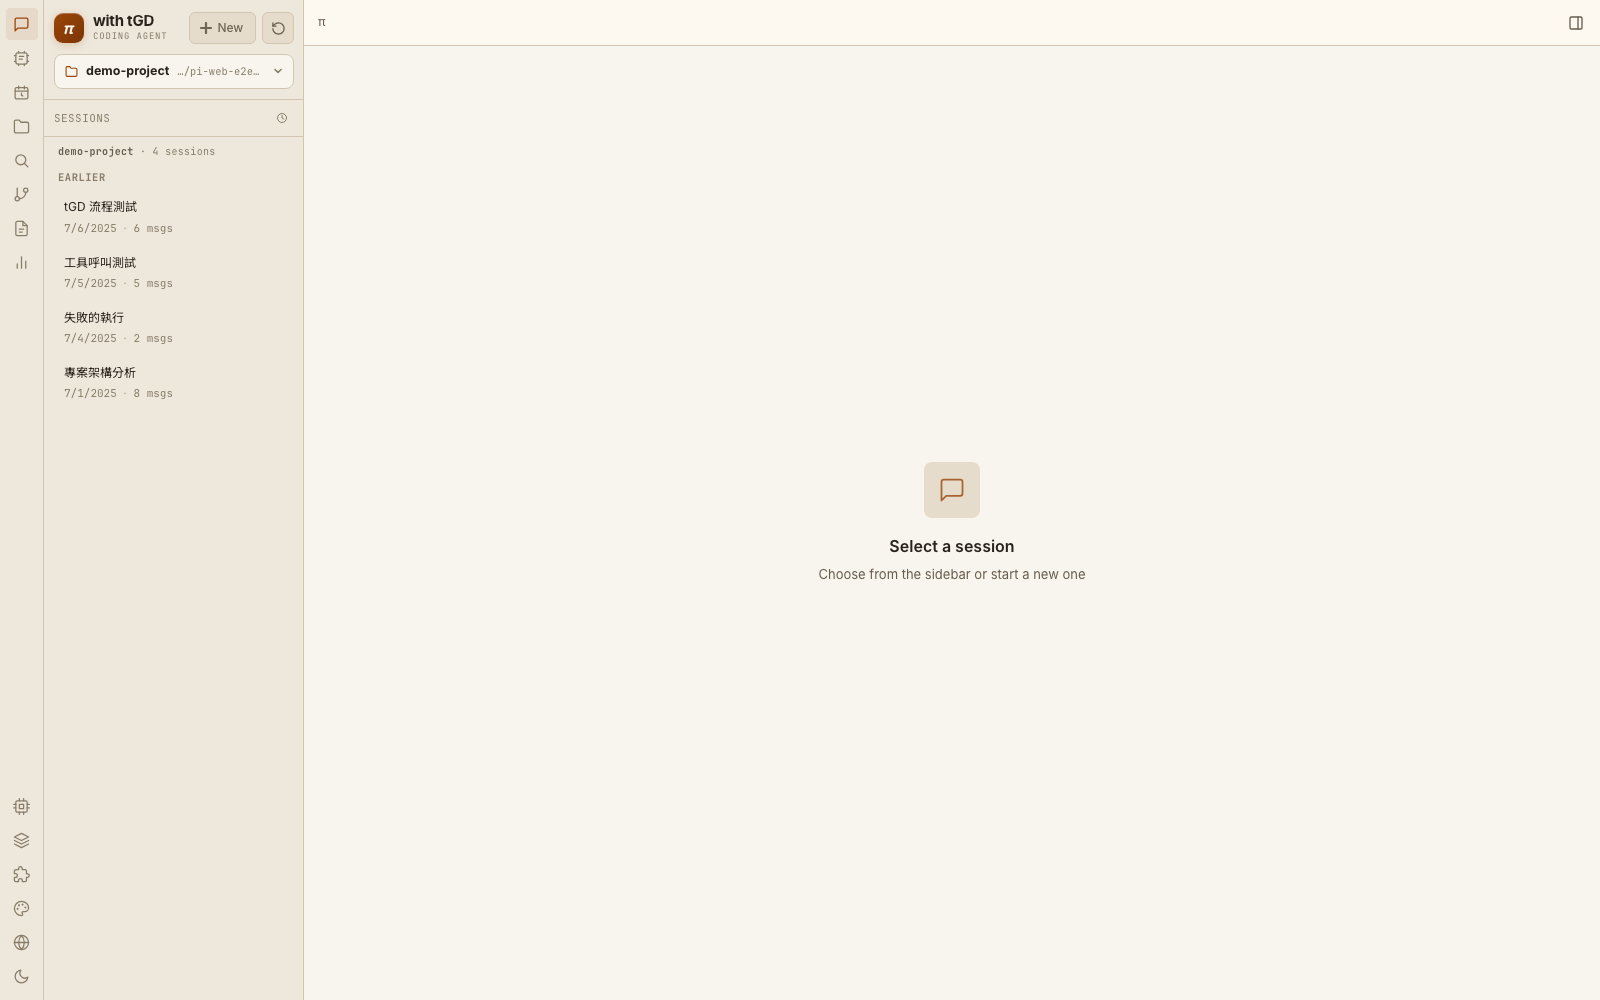
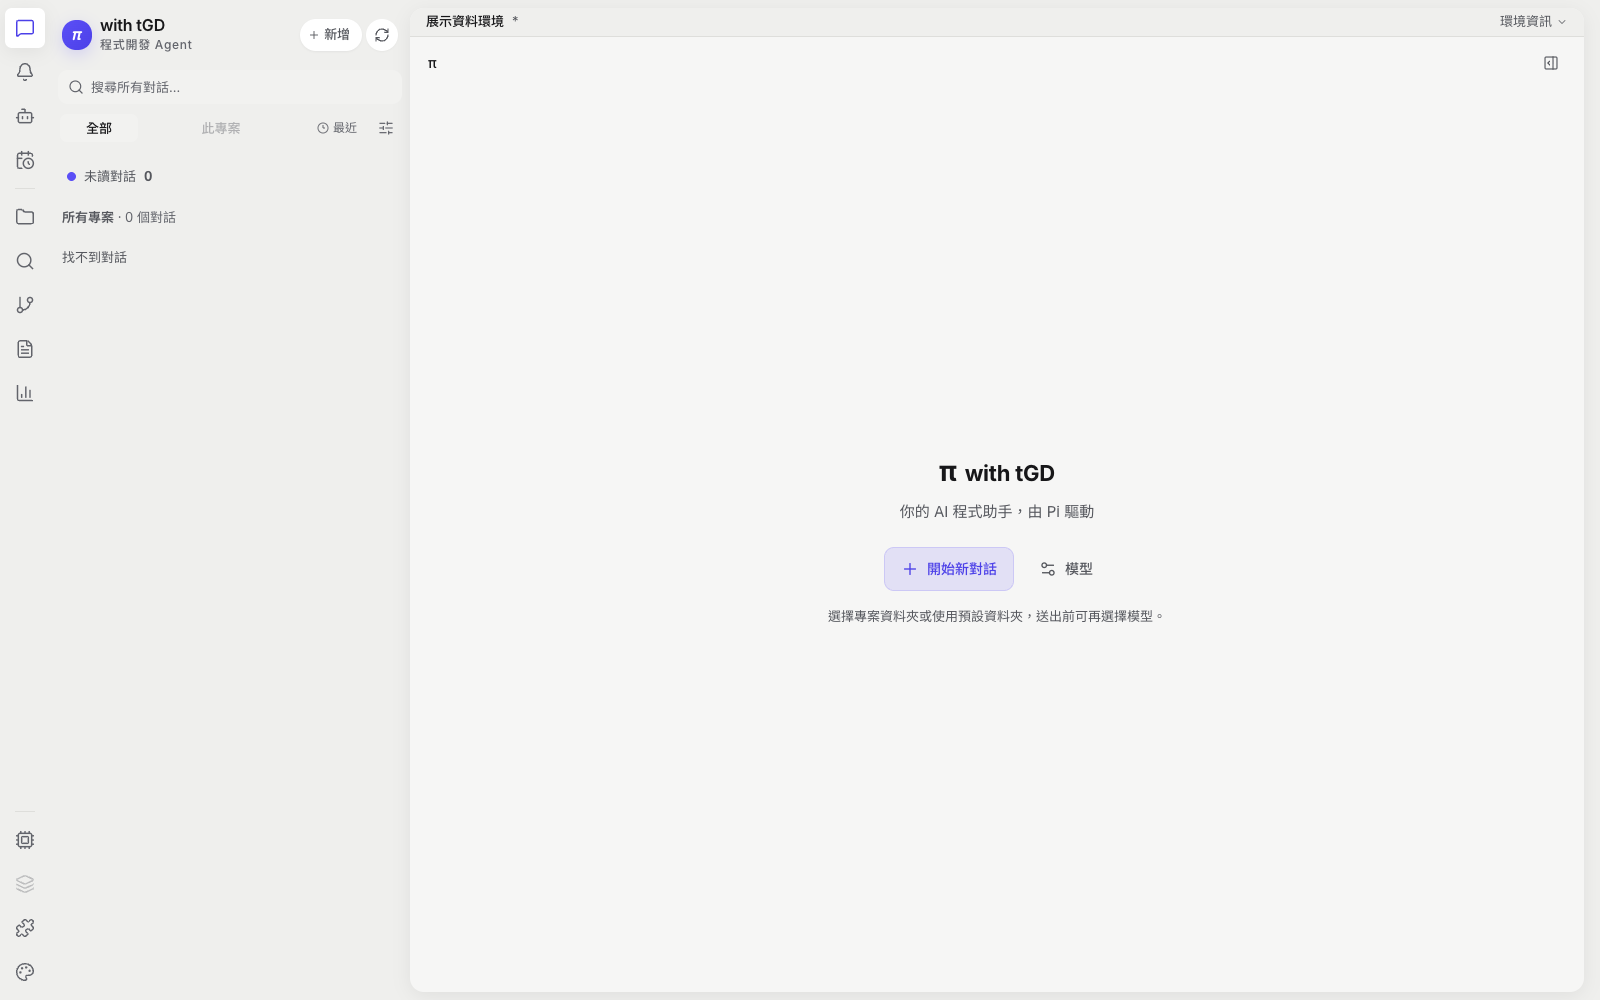
Refresh README screenshots and performance documentation (#74)
* docs: document performance improvements

* docs: refresh README interface screenshots

---------

diff --git a/README.de.md b/README.de.md
@@ -145,26 +145,39 @@ Setze `TGD_DIR`, wenn das Artefaktverzeichnis an einem anderen Ort liegt.
 
 Das mobile Layout hält aktive Phase, Gespräch, Composer, Modellsteuerung und Hauptnavigation in Daumenreichweite und berücksichtigt die Safe Areas des Geräts.
 
-| Session- und Datei-Arbeitsbereich | Befehlspalette |
+| Session- und Datei-Arbeitsbereich | Einheitliche Suche |
 |---|---|
-| ![Code-Session](./docs/screenshots/03-code-session.png) | ![Befehlspalette](./docs/screenshots/04-command-palette.png) |
+| ![Code-Session](./docs/screenshots/03-code-session.png) | ![Einheitliche Suche](./docs/screenshots/04-unified-search.png) |
 
 | Dunkelmodus | Leerer Zustand |
 |---|---|
 | ![Dunkelmodus](./docs/screenshots/10-dark-mode.png) | ![Leerer Zustand](./docs/screenshots/01-empty-state.png) |
 
 <details>
-<summary><strong>Alle fünf Appearance-Skins anzeigen</strong></summary>
+<summary><strong>Alle sechs Appearance-Skins anzeigen</strong></summary>
 
-| Editorial | Terminal | Aurora |
+| TRAE | Editorial | Terminal |
 |---|---|---|
-| ![Editorial skin](./docs/screenshots/05-skin-editorial.png) | ![Terminal skin](./docs/screenshots/06-skin-terminal.png) | ![Aurora skin](./docs/screenshots/07-skin-aurora.png) |
+| ![TRAE skin](./docs/screenshots/03-code-session.png) | ![Editorial skin](./docs/screenshots/05-skin-editorial.png) | ![Terminal skin](./docs/screenshots/06-skin-terminal.png) |
 
-| Industrial | Glass |
-|---|---|
-| ![Industrial skin](./docs/screenshots/08-skin-industrial.png) | ![Glass skin](./docs/screenshots/09-skin-glass.png) |
+| Aurora | Industrial | Glass |
+|---|---|---|
+| ![Aurora skin](./docs/screenshots/07-skin-aurora.png) | ![Industrial skin](./docs/screenshots/08-skin-industrial.png) | ![Glass skin](./docs/screenshots/09-skin-glass.png) |
 
 </details>
+
+## Leistung
+
+Derselbe lokale Snapshot mit 104 Sessions ergab nach den Änderungen an Start, Transcript und Suche diese End-to-End-Messwerte:
+
+| Pfad | Vorher | Nachher | Änderung |
+| --- | ---: | ---: | ---: |
+| Initiales JavaScript (gzip) | 472.2 KiB | 321.7 KiB | 31.9% kleiner |
+| Übertragung einer Konversation mit 692 Nachrichten | 3,635.98 KiB | 1,505.25 KiB | 58.6% kleiner |
+| Übertragung einer Konversation mit 382 Nachrichten | 1,558.69 KiB | 767.20 KiB | 50.8% kleiner |
+| Median der Session-Suche im warmen Zustand | 31.35 ms | 2.90 ms | 90.7% schneller |
+
+Der Chat-Arbeitsbereich wird lazy geladen und bei direkten `?session=`-Links parallel zur Session-Wiederherstellung vorgeladen. Streaming-Markdown verwendet abgeschlossene Blöcke wieder und zeigt einen wachsenden fenced Codeblock bis zur abschließenden Analyse als Literal an; das finale Syntax-Highlighting bleibt erhalten. Sessiondetails und Context-Antworten nutzen begrenzte, revisionsgeprüfte JSONL- und gzip-Caches; SSE bleibt ungepuffert. Die Volltextsuche verwendet einen separaten begrenzten Index (500 Dateien / 32 MiB, höchstens acht parallele Builds), der durch Dateiidentität, Größe, ctime, mtime und Modus invalidiert wird. Es handelt sich um Messungen eines lokalen Snapshots; Hardware, Provider-Latenz und Transkriptform verändern die Ergebnisse.
 
 ## Hauptfunktionen
 
@@ -205,7 +218,7 @@ API-Revisionen, Validierungsgrenzen und Warnungen nach erfolgreichem Speichern s
 
 ### Sessions und Navigation
 
-- Inkrementeller, schreibgeschützter Index lokaler Pi-`.jsonl`-Dateien.
+- Inkrementeller, schreibgeschützter Index lokaler Pi-`.jsonl`-Dateien mit einem begrenzten, revisionsgeprüften Volltextindex.
 - Suche, Tags, Pins, Archiv, automatische Benennung, HTML/Markdown-Export und Nutzungsanalyse.
 - Gesprächssuche, User-Turn-Navigation, Lesezeichen, Minimap, Einklappen langer Nachrichten und optionaler Always-follow-Stream.
 - Project Switcher mit zuletzt verwendeten Projekten, Pins, Discovery, Dateisystem-Vervollständigung und verknüpften Git-Worktrees.
@@ -221,8 +234,8 @@ API-Revisionen, Validierungsgrenzen und Warnungen nach erfolgreichem Speichern s
 
 ### Darstellung und Erscheinungsbild
 
-- GitHub Flavored Markdown, Tabellen, Task-Listen, KaTeX, Mermaid und verzögert geladenes Syntax-Highlighting.
-- Editorial, Terminal, Industrial, Aurora und Glass, jeweils mit hellem und dunklem Modus.
+- GitHub Flavored Markdown, Tabellen, Task-Listen, KaTeX, Mermaid, streaming-sichere fenced Codeblöcke und verzögert geladenes finales Syntax-Highlighting.
+- TRAE, Editorial, Terminal, Industrial, Aurora und Glass, jeweils mit hellem und dunklem Modus.
 - Mitgelieferte Schriften Inter, JetBrains Mono und Noto Sans TC ohne CDN-Abhängigkeit.
 - UI-Sprachen der Anwendung: English und 繁體中文. Diese Projektdokumentation ist zusätzlich auf Japanisch und Deutsch verfügbar.
 
@@ -230,7 +243,7 @@ API-Revisionen, Validierungsgrenzen und Warnungen nach erfolgreichem Speichern s
 
 | Tasten | Aktion |
 |---|---|
-| `⌘/Ctrl + K` | Befehlspalette öffnen |
+| `⌘/Ctrl + K` | Einheitliche Suche öffnen |
 | `⌘/Ctrl + P` | Project Switcher öffnen |
 | `⌘/Ctrl + F` | Im Gespräch suchen |
 | `⌥ + ↑` / `⌥ + ↓` | Vorheriger / nächster User Turn |
@@ -294,7 +307,7 @@ Session-Dateien bleiben im nativen Pi-Format:
 ```text
 Browser                    Next.js server             AgentSessionRuntime
   │                              │                            │
-  ├─ GET /api/sessions ─────────▶│ incremental .jsonl cache   │
+  ├─ GET /api/sessions ─────────▶│ bounded .jsonl cache/index │
   ├─ POST /api/agent/[id] ──────▶│ startRpcSession() ────────▶│
   ├─ GET /events (SSE) ─────────▶│◀──── session events ───────│
   ├─ GET /api/files/* ──────────▶│ allowed-root file access   │
@@ -302,7 +315,7 @@ Browser                    Next.js server             AgentSessionRuntime
   └─ GET /api/tgd/artifacts ────▶│ sibling tGD directory      │
 ```
 
-Beim schreibgeschützten Browsen werden Session-Dateien analysiert, ohne eine `AgentSession` zu erstellen. Erst beim Senden einer Nachricht erzeugt der Server einen In-Process-Runtime-Wrapper pro aktiver Session und streamt Ereignisse über SSE. Pi verwaltet den Sessionwechsel; der Wrapper bindet cwd-spezifische Dienste, Extensions, Registry-Schlüssel und Event-Abonnements an die neue `AgentSession`.
+Bei der normalen Navigation bleibt der Chat-Arbeitsbereich in einem lazy geladenen Chunk; direkte `?session=`-Links laden ihn parallel zur Session-Wiederherstellung vor. Beim schreibgeschützten Browsen werden Session-Dateien analysiert, ohne eine `AgentSession` zu erstellen. Erst beim Senden einer Nachricht erzeugt der Server einen In-Process-Runtime-Wrapper pro aktiver Session und streamt Ereignisse über SSE. Sessionliste sowie Detail- und Context-Lesevorgänge nutzen begrenzte, revisionsgeprüfte JSONL- und gzip-Caches; die Volltextsuche verwendet einen separaten begrenzten Index. Der JSON-Response-Helper puffert oder komprimiert SSE nicht. Pi verwaltet den Sessionwechsel; der Wrapper bindet cwd-spezifische Dienste, Extensions, Registry-Schlüssel und Event-Abonnements an die neue `AgentSession`.
 
 ## Projektstruktur
 

diff --git a/README.md b/README.md
@@ -149,26 +149,39 @@ Set `TGD_DIR` when your artifact directory lives elsewhere.
 
 The mobile layout keeps the active phase, transcript, composer, model controls, and primary navigation within thumb reach while respecting device safe areas.
 
-| Session and file workspace | Command palette |
+| Session and file workspace | Unified search |
 |---|---|
-| ![Code session](./docs/screenshots/03-code-session.png) | ![Command palette](./docs/screenshots/04-command-palette.png) |
+| ![Code session](./docs/screenshots/03-code-session.png) | ![Unified search](./docs/screenshots/04-unified-search.png) |
 
 | Dark mode | Empty state |
 |---|---|
 | ![Dark mode](./docs/screenshots/10-dark-mode.png) | ![Empty state](./docs/screenshots/01-empty-state.png) |
 
 <details>
-<summary><strong>View all five appearance skins</strong></summary>
+<summary><strong>View all six appearance skins</strong></summary>
 
-| Editorial | Terminal | Aurora |
+| TRAE | Editorial | Terminal |
 |---|---|---|
-| ![Editorial skin](./docs/screenshots/05-skin-editorial.png) | ![Terminal skin](./docs/screenshots/06-skin-terminal.png) | ![Aurora skin](./docs/screenshots/07-skin-aurora.png) |
+| ![TRAE skin](./docs/screenshots/03-code-session.png) | ![Editorial skin](./docs/screenshots/05-skin-editorial.png) | ![Terminal skin](./docs/screenshots/06-skin-terminal.png) |
 
-| Industrial | Glass |
-|---|---|
-| ![Industrial skin](./docs/screenshots/08-skin-industrial.png) | ![Glass skin](./docs/screenshots/09-skin-glass.png) |
+| Aurora | Industrial | Glass |
+|---|---|---|
+| ![Aurora skin](./docs/screenshots/07-skin-aurora.png) | ![Industrial skin](./docs/screenshots/08-skin-industrial.png) | ![Glass skin](./docs/screenshots/09-skin-glass.png) |
 
 </details>
+
+## Performance
+
+The same local 104-session snapshot produced these end-to-end measurements after the startup, transcript, and search changes:
+
+| Path | Before | After | Change |
+| --- | ---: | ---: | ---: |
+| Initial JavaScript (gzip) | 472.2 KiB | 321.7 KiB | 31.9% smaller |
+| 692-message conversation transfer | 3,635.98 KiB | 1,505.25 KiB | 58.6% smaller |
+| 382-message conversation transfer | 1,558.69 KiB | 767.20 KiB | 50.8% smaller |
+| Warm session-search median | 31.35 ms | 2.90 ms | 90.7% faster |
+
+The chat workspace is lazy-loaded and preloaded alongside session restoration for direct `?session=` links. Streaming Markdown reuses completed blocks and renders a growing fenced code block literally until the final parse, so final syntax highlighting is retained. Session detail and context responses use bounded, revision-aware JSONL and gzip caches; SSE remains unbuffered. Full-text search uses a separate bounded index (500 files / 32 MiB, at most eight concurrent builds), invalidated by file identity, size, ctime, mtime, and mode. These are measurements from one local snapshot; results vary with hardware, provider latency, and transcript shape.
 
 ## Key Features
 
@@ -252,7 +265,7 @@ MCP guide for API revisions, validation limits and saved-but-reload-failed warni
 
 ### Sessions and navigation
 
-- Incremental, read-only session index over local Pi `.jsonl` files.
+- Incremental, read-only session index over local Pi `.jsonl` files, backed by a bounded, revision-aware full-text index.
 - Search, tags, pins, archive, auto-naming, HTML/Markdown export, and usage analytics.
 - Conversation find, user-turn navigation, bookmarks, minimap, long-message collapse, and optional always-follow streaming.
 - A run monitor stays beside the composer while browsing earlier messages. It shows the last reported phase, total elapsed time, and age of the last model/tool event. Expand it for full tool targets, individual tool timers and reported subagent states; select a tool to open its work log. Quiet periods remain neutral, and a keepalive is not evidence that the provider is computing.
@@ -327,8 +340,8 @@ the download to obtain the current file.
 
 ### Rendering and appearance
 
-- GitHub Flavored Markdown, tables, task lists, KaTeX, Mermaid, and lazy-loaded syntax highlighting.
-- Editorial, Terminal, Industrial, Aurora, and Glass skins, each in light and dark mode.
+- GitHub Flavored Markdown, tables, task lists, KaTeX, Mermaid, streaming-safe fenced-code rendering, and lazy-loaded final syntax highlighting.
+- TRAE, Editorial, Terminal, Industrial, Aurora, and Glass skins, each in light and dark mode.
 - Bundled Inter, JetBrains Mono, and Noto Sans TC fonts with no CDN dependency.
 - Application UI languages: English and Traditional Chinese. These project documents are also available in Japanese and German.
 
@@ -336,7 +349,7 @@ the download to obtain the current file.
 
 | Keys | Action |
 |---|---|
-| `⌘/Ctrl + K` | Open command palette |
+| `⌘/Ctrl + K` | Open unified search |
 | `⌘/Ctrl + P` | Open project switcher |
 | `⌘/Ctrl + F` | Find in the conversation |
 | `⌥ + ↑` / `⌥ + ↓` | Previous / next user turn |
@@ -421,7 +434,7 @@ until an operator explicitly converts them; see [offline archive conversion](doc
 ```text
 Browser                    Next.js server             AgentSessionRuntime
   │                              │                            │
-  ├─ GET /api/sessions ─────────▶│ incremental .jsonl cache   │
+  ├─ GET /api/sessions ─────────▶│ bounded .jsonl cache/index │
   ├─ POST /api/agent/[id] ──────▶│ startRpcSession() ────────▶│
   ├─ GET /events (SSE) ─────────▶│◀──── session events ───────│
   ├─ GET /api/files/* ──────────▶│ allowed-root file access   │
@@ -429,10 +442,14 @@ Browser                    Next.js server             AgentSessionRuntime
   └─ GET /api/tgd/artifacts ────▶│ sibling tGD directory      │
 ```
 
-Read-only history parsing does not create an `AgentSession`; sending a message
-creates an in-process SDK wrapper, and Pi owns its session replacement lifecycle.
-Session listing, search and export read native JSONL history. Background runs and
-schedules use the same SDK session infrastructure.
+Normal navigation keeps the chat workspace in a lazy-loaded chunk; direct
+`?session=` links preload it alongside session restoration. Read-only history
+parsing does not create an `AgentSession`; sending a message creates an in-process
+SDK wrapper, and Pi owns its session replacement lifecycle. Session listing and
+detail/context reads use bounded, revision-aware JSONL and gzip caches, while
+full-text search keeps a separate bounded index. SSE is not buffered or
+compressed by the JSON response helper. Background runs and schedules use the
+same SDK session infrastructure.
 
 ## Project Structure
 

diff --git a/README.zh-TW.md b/README.zh-TW.md
@@ -153,26 +153,39 @@ parent/
 
 手機版會在 safe area 內保留目前階段、對話、輸入框、模型控制與主要導覽，常用操作維持在拇指可及範圍。
 
-| Session 與檔案工作區 | 指令面板 |
+| Session 與檔案工作區 | 全域搜尋 |
 |---|---|
-| ![程式碼 session](./docs/screenshots/03-code-session.png) | ![指令面板](./docs/screenshots/04-command-palette.png) |
+| ![程式碼 session](./docs/screenshots/03-code-session.png) | ![全域搜尋](./docs/screenshots/04-unified-search.png) |
 
 | 深色模式 | 空白狀態 |
 |---|---|
 | ![深色模式](./docs/screenshots/10-dark-mode.png) | ![空白狀態](./docs/screenshots/01-empty-state.png) |
 
 <details>
-<summary><strong>查看全部五種外觀 skin</strong></summary>
+<summary><strong>查看全部六種外觀 skin</strong></summary>
 
-| Editorial | Terminal | Aurora |
+| TRAE | Editorial | Terminal |
 |---|---|---|
-| ![Editorial skin](./docs/screenshots/05-skin-editorial.png) | ![Terminal skin](./docs/screenshots/06-skin-terminal.png) | ![Aurora skin](./docs/screenshots/07-skin-aurora.png) |
+| ![TRAE skin](./docs/screenshots/03-code-session.png) | ![Editorial skin](./docs/screenshots/05-skin-editorial.png) | ![Terminal skin](./docs/screenshots/06-skin-terminal.png) |
 
-| Industrial | Glass |
-|---|---|
-| ![Industrial skin](./docs/screenshots/08-skin-industrial.png) | ![Glass skin](./docs/screenshots/09-skin-glass.png) |
+| Aurora | Industrial | Glass |
+|---|---|---|
+| ![Aurora skin](./docs/screenshots/07-skin-aurora.png) | ![Industrial skin](./docs/screenshots/08-skin-industrial.png) | ![Glass skin](./docs/screenshots/09-skin-glass.png) |
 
 </details>
+
+## 效能
+
+以下是在同一份含 104 個本機 session 的快照上，對啟動、對話傳輸與搜尋改動所做的端到端量測：
+
+| 路徑 | 修改前 | 修改後 | 變化 |
+| --- | ---: | ---: | ---: |
+| 初始 JavaScript（gzip） | 472.2 KiB | 321.7 KiB | 減少 31.9% |
+| 692 則訊息的對話傳輸 | 3,635.98 KiB | 1,505.25 KiB | 減少 58.6% |
+| 382 則訊息的對話傳輸 | 1,558.69 KiB | 767.20 KiB | 減少 50.8% |
+| 暖啟動 session 搜尋中位數 | 31.35 ms | 2.90 ms | 加快 90.7% |
+
+聊天工作區採延遲載入；直接開啟 `?session=` 時，會與 session 還原並行預載。串流 Markdown 會重用已完成區塊，成長中的 fenced code block 先以純文字顯示，最終解析後仍保留語法高亮。Session 詳細資料與 context 回應使用有上限、會檢查版本的 JSONL 與 gzip 快取；SSE 不緩衝。全文搜尋使用獨立且有上限的索引（500 個檔案／32 MiB，最多同時建置 8 個），並以檔案身分、大小、ctime、mtime 與 mode 判斷失效。以上是單次本機快照量測，實際結果會隨硬體、provider 延遲與對話內容而異。
 
 ## 主要功能
 
@@ -237,7 +250,7 @@ OAuth/PKCE、resource/prompt 瀏覽與 required-task 執行尚未整合；詳見
 
 ### Session 與導覽
 
-- 以增量、唯讀方式索引本機 Pi `.jsonl` session 檔。
+- 以增量、唯讀方式索引本機 Pi `.jsonl` session 檔，並搭配有上限、會檢查版本的全文索引。
 - 支援搜尋、標籤、釘選、封存、自動命名、HTML/Markdown 匯出與用量分析。
 - 提供對話搜尋、user turn 導覽、書籤、minimap、長訊息收合與 always-follow 串流模式。
 - Project switcher 支援最近專案、釘選、探索、檔案系統自動完成與 linked git worktrees。
@@ -256,8 +269,8 @@ OAuth/PKCE、resource/prompt 瀏覽與 required-task 執行尚未整合；詳見
 
 ### 顯示與外觀
 
-- GitHub Flavored Markdown、表格、task list、KaTeX、Mermaid 與延遲載入的語法高亮。
-- Editorial、Terminal、Industrial、Aurora、Glass 五種 skin，各自支援亮色與暗色。
+- GitHub Flavored Markdown、表格、task list、KaTeX、Mermaid、適合串流內容的 fenced code 呈現，以及延遲載入的最終語法高亮。
+- TRAE、Editorial、Terminal、Industrial、Aurora、Glass 六種 skin，各自支援亮色與暗色。
 - 內建 Inter、JetBrains Mono 與 Noto Sans TC，不依賴 CDN。
 - 應用程式介面語言目前為 English 與繁體中文；專案文件另外提供日本語與 Deutsch。
 
@@ -265,7 +278,7 @@ OAuth/PKCE、resource/prompt 瀏覽與 required-task 執行尚未整合；詳見
 
 | 按鍵 | 動作 |
 |---|---|
-| `⌘/Ctrl + K` | 開啟指令面板 |
+| `⌘/Ctrl + K` | 開啟全域搜尋 |
 | `⌘/Ctrl + P` | 開啟 project switcher |
 | `⌘/Ctrl + F` | 搜尋目前對話 |
 | `⌥ + ↑` / `⌥ + ↓` | 上一個／下一個 user turn |
@@ -349,7 +362,7 @@ PW_CHROMIUM_PATH=/opt/pw-browsers/chromium npm run test:e2e
 ```text
 Browser                    Next.js server             AgentSessionRuntime
   │                              │                            │
-  ├─ GET /api/sessions ─────────▶│ incremental .jsonl cache   │
+  ├─ GET /api/sessions ─────────▶│ bounded .jsonl cache/index │
   ├─ POST /api/agent/[id] ──────▶│ startRpcSession() ────────▶│
   ├─ GET /events (SSE) ─────────▶│◀──── session events ───────│
   ├─ GET /api/files/* ──────────▶│ allowed-root file access   │
@@ -357,7 +370,7 @@ Browser                    Next.js server             AgentSessionRuntime
   └─ GET /api/tgd/artifacts ────▶│ sibling tGD directory      │
 ```
 
-唯讀歷史解析不會建立 `AgentSession`；送出訊息才建立 in-process SDK wrapper，由 Pi 管理 session 替換。列表、搜尋與匯出讀取原生 JSONL 歷史，背景任務與排程沿用相同的 SDK Session 基礎。
+一般導覽會把聊天工作區保留在延遲載入的 chunk；直接開啟 `?session=` 時，則會與 session 還原並行預載。唯讀歷史解析不會建立 `AgentSession`；送出訊息才建立 in-process SDK wrapper，由 Pi 管理 session 替換。列表以及詳細資料／context 讀取使用有上限、會檢查版本的 JSONL 與 gzip 快取，全文搜尋另用獨立且有上限的索引。JSON 回應 helper 不會緩衝或壓縮 SSE。背景任務與排程沿用相同的 SDK Session 基礎。
 
 ## 專案結構
 
